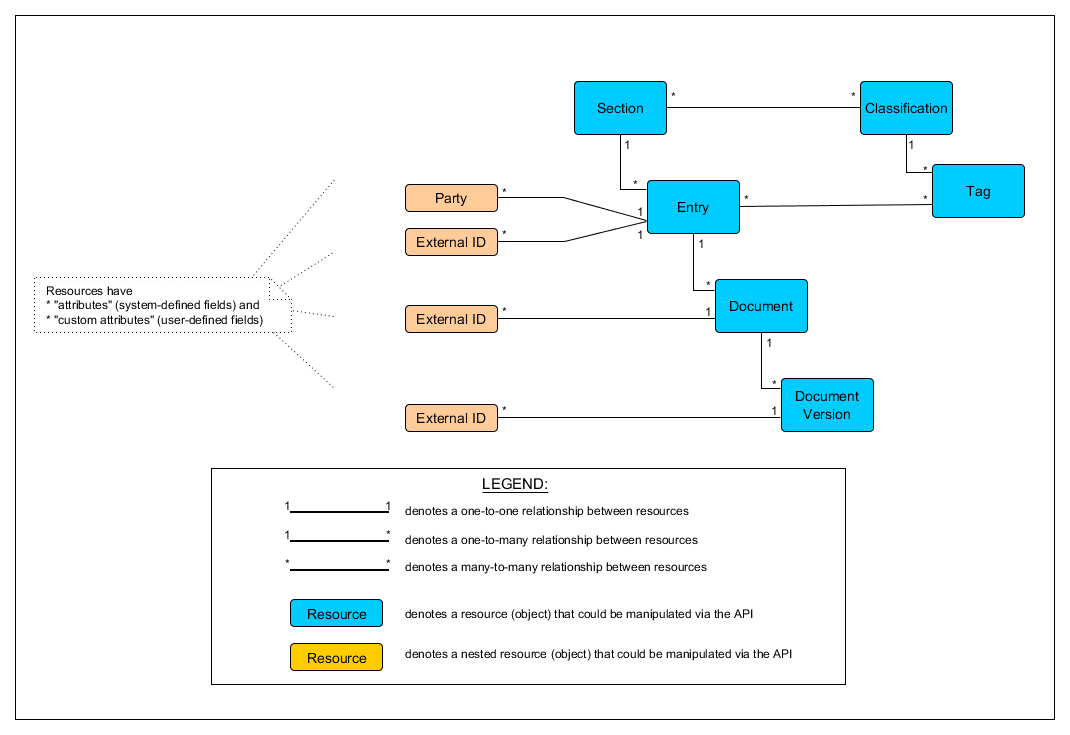
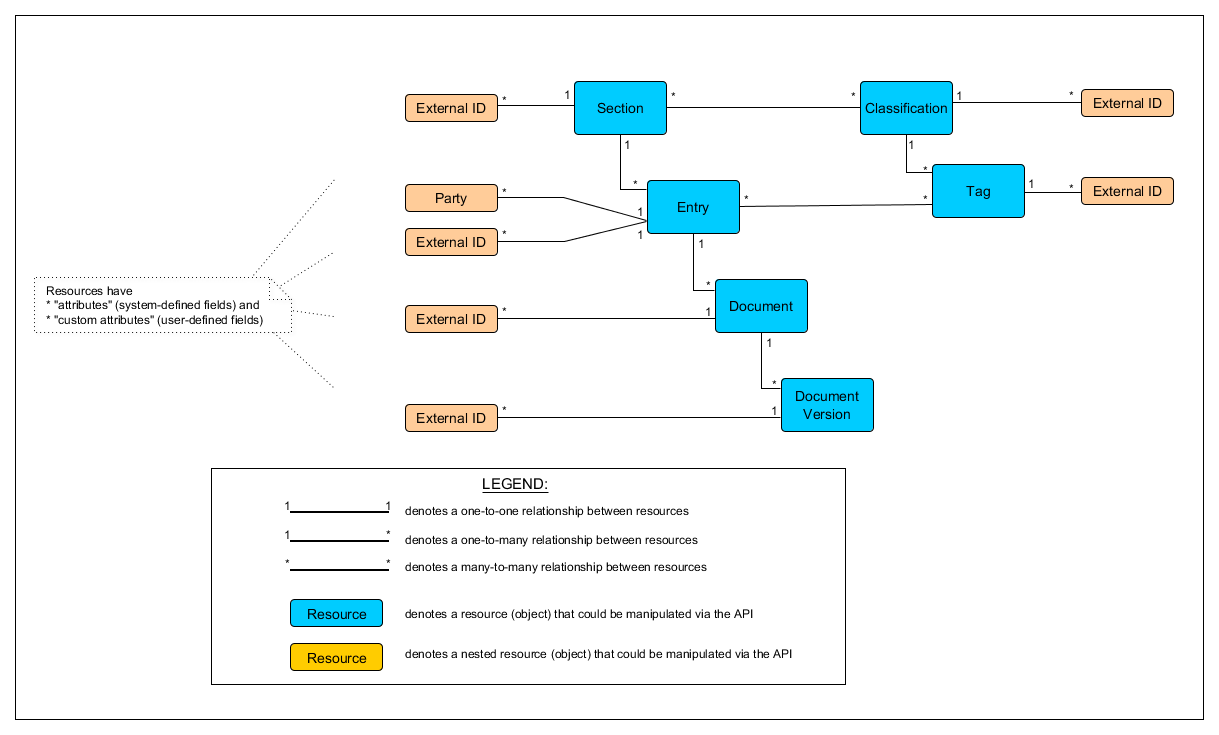
Documaster API: draft 10
Changes in the API documentation:

* Support for External IDs on Section, Classification, and Tag

diff --git a/v1/model.md b/v1/model.md
@@ -124,6 +124,7 @@ A Classification is identified by the following attributes:
 | effectivePermissions |      | string array         | Read-only [Effective permissions](#effective-permissions)           |
 | classification       |      | array of resources   | Related Tags                                                        |
 | sections             |      | array of resources   | Related Sections                                                    |
+| externalIds          |      | array of resources   | Related ExternalIds                                                 |
 
 ### Expand
 
@@ -153,6 +154,7 @@ A Tag is identified by the following attributes:
 | highlights           |      | highlight snippets | Read-only [Highlight snippets](#highlights) per resource attribute  |
 | effectivePermissions |      | string array       | Read-only [Effective permissions](#effective-permissions)           |
 | classification       |      | resource           | Parent Classification                                               |
+| externalIds          |      | array of resources | Related ExternalIds                                                 |
 
 ### Expand
 
@@ -357,6 +359,9 @@ An ExternalID is identified by the following attributes:
 | externalId           | X    | string             | External ID                                                         |
 | highlights           |      | highlight snippets | Read-only [Highlight snippets](#highlights) per resource attribute  |
 | effectivePermissions |      | string array       | Read-only [Effective permissions](#effective-permissions)           |
+| classification       |      | resource           | Parent Classification, if any                                       |
+| section              |      | resource           | Parent Section, if any                                              |
+| tag                  |      | resource           | Parent Tag, if any                                                  |
 | entry                |      | resource           | Parent Entry, if any                                                |
 | document             |      | resource           | Parent Document, if any                                             |
 | documentVersion      |      | resource           | Parent Document Version, if any                                     |
